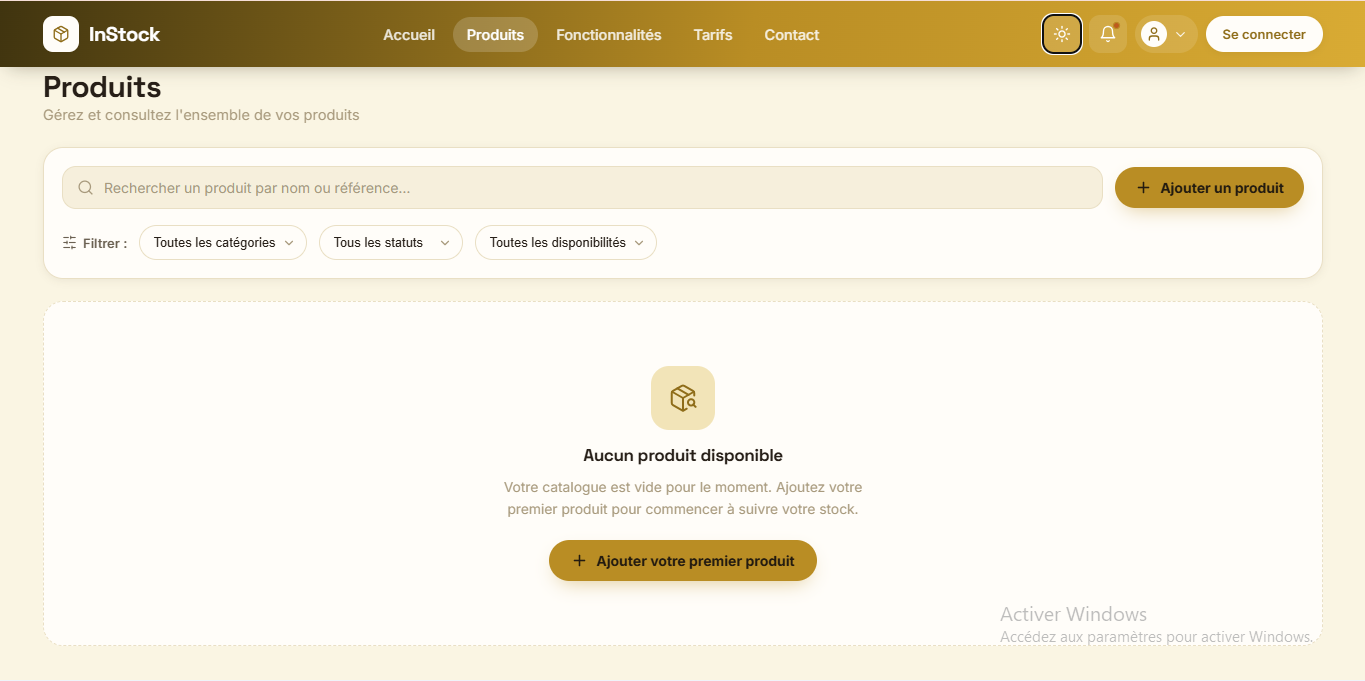
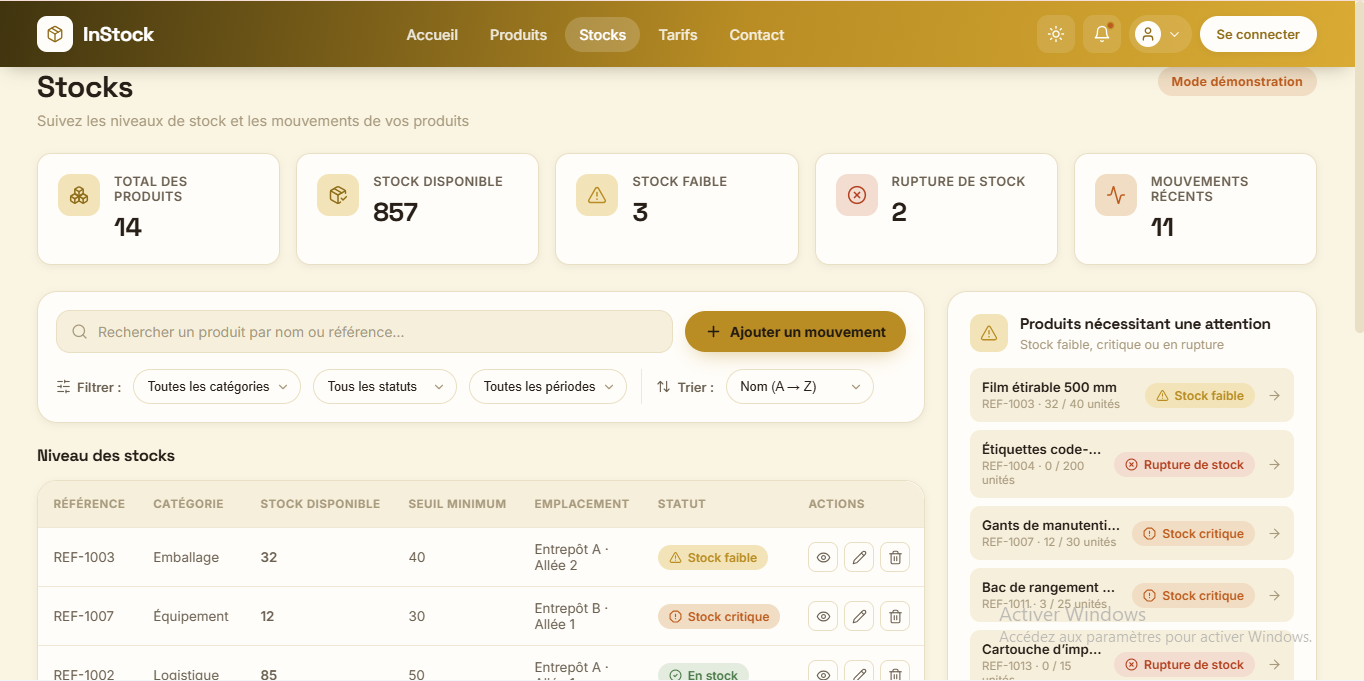
stocks publique

diff --git a/instock-dashboard/src/pages/Stocks.css b/instock-dashboard/src/pages/Stocks.css
@@ -1,0 +1,1 @@
+.stocks-page{padding:32px 20px 64px}.stocks-header{display:flex;align-items:flex-start;justify-content:space-between;gap:16px;flex-wrap:wrap;margin-bottom:24px;opacity:0}.stocks-header h1{font-size:clamp(28px,3.4vw,36px);color:var(--ink)}.stocks-subtitle{margin-top:6px;font-size:14.5px;color:var(--text-muted)}.demo-tag{display:inline-flex;padding:7px 14px;border-radius:999px;background:var(--accent-tint);color:var(--accent);font-size:12px;font-weight:700;white-space:nowrap}.stocks-kpi-grid{display:grid;grid-template-columns:1fr;gap:16px;margin-bottom:26px}.stocks-main-grid{display:grid;grid-template-columns:1fr;gap:22px;align-items:start}.stocks-primary-col,.stocks-side-col{min-width:0}.stocks-chart-block{margin-top:24px}.section-title{font-size:16.5px;color:var(--ink);margin:20px 0 14px}.stock-filters{display:grid;gap:15px;padding:18px;border:1px solid var(--border);border-radius:var(--radius-lg);background:var(--surface);box-shadow:var(--shadow-sm);animation:stockRise .5s var(--ease) both}.stock-search{display:flex;align-items:center;gap:10px;min-height:44px;padding:0 14px;border:1px solid var(--border);border-radius:12px;color:var(--text-muted);background:var(--surface-alt)}.stock-search:focus-within{border-color:var(--primary);box-shadow:0 0 0 4px rgba(185,141,36,.12)}.stock-search input{width:100%;border:0;outline:0;color:var(--ink);background:transparent;font:inherit;font-size:13px}.stock-filter-row{display:flex;align-items:center;flex-wrap:wrap;gap:9px}.filter-label{display:inline-flex;align-items:center;gap:6px;color:var(--text-secondary);font-size:12px;font-weight:700}.sort-label{margin-left:8px}.stock-filter-row select{min-height:38px;padding:0 12px;border:1px solid var(--border);border-radius:999px;outline:0;color:var(--ink);background:var(--surface);font:inherit;font-size:12px}.movement-button,.stock-primary{display:inline-flex;align-items:center;justify-content:center;gap:8px;min-height:40px;padding:0 16px;border:0;border-radius:999px;color:#fffdf9;background:var(--primary);box-shadow:0 8px 18px rgba(143,109,26,.2);font:700 12px Inter,sans-serif;cursor:pointer;transition:transform .2s ease,background .2s ease}.movement-button{margin-left:auto}.movement-button:hover,.stock-primary:hover{background:var(--primary-dark);transform:translateY(-2px)}.reset-stock-filters,.stock-empty button,.stock-secondary{display:inline-flex;align-items:center;justify-content:center;gap:7px;min-height:38px;padding:0 12px;border:1px solid var(--border);border-radius:999px;color:var(--text-secondary);background:var(--surface);font:600 12px Inter,sans-serif;cursor:pointer}.reset-stock-filters:hover,.stock-empty button:hover,.stock-secondary:hover{border-color:var(--primary);color:var(--primary-dark)}.stock-table-wrap{overflow-x:auto;border:1px solid var(--border);border-radius:var(--radius-lg);background:var(--surface);box-shadow:var(--shadow-sm);animation:stockRise .55s .1s var(--ease) both}.stock-table{width:100%;min-width:940px;border-collapse:collapse;text-align:left}.stock-table th{padding:14px;color:var(--text-muted);border-bottom:1px solid var(--border);font-size:10px;text-transform:uppercase;letter-spacing:.08em}.stock-table td{padding:13px 14px;color:var(--ink);border-bottom:1px solid var(--border-soft);font-size:12px}.stock-table tbody tr{transition:background .2s ease}.stock-table tbody tr:hover{background:var(--surface-hover)}.stock-table tbody tr:last-child td{border-bottom:0}.stock-product{display:flex;align-items:center;gap:10px;min-width:190px}.stock-product img,.stock-card-head img{width:40px;height:40px;object-fit:cover;border-radius:9px;background:var(--surface-alt)}.stock-status{display:inline-flex;white-space:nowrap;padding:5px 8px;border-radius:999px;font-size:10px;font-weight:700}.status-in_stock{color:var(--success);background:var(--success-tint)}.status-low_stock{color:var(--warning);background:var(--warning-tint)}.status-critical_stock{color:var(--accent);background:var(--accent-tint)}.status-out_of_stock{color:var(--danger);background:var(--danger-tint)}.stock-actions{display:flex;align-items:center;gap:4px}.stock-actions button{display:inline-flex;align-items:center;justify-content:center;gap:5px;width:30px;height:30px;padding:0;border:1px solid var(--border);border-radius:8px;color:var(--text-muted);background:var(--surface);cursor:pointer}.stock-actions button:hover{color:var(--primary-dark);border-color:var(--primary);background:var(--surface-alt)}.stocks-view-desktop{display:none}.stocks-view-mobile{display:block}.stock-card-list{display:grid;gap:12px}.stock-card{padding:14px;border:1px solid var(--border);border-radius:var(--radius-md);background:var(--surface);box-shadow:var(--shadow-sm);animation:stockRow .4s var(--ease) both}.stock-card-head{display:flex;align-items:center;gap:10px}.stock-card-head h3{margin:0 0 3px;color:var(--ink);font-size:14px}.stock-card-head p{margin:0;color:var(--text-muted);font-size:11px}.stock-card-head .stock-status{margin-left:auto}.stock-card-grid{display:grid;grid-template-columns:repeat(2,1fr);gap:12px;margin:16px 0;color:var(--ink);font-size:12px}.stock-card-grid span{display:grid;gap:4px}.stock-card-grid small,.stock-detail-grid small{color:var(--text-muted);font-size:10px}.stock-card .stock-actions{justify-content:flex-end;padding-top:10px;border-top:1px solid var(--border-soft)}.stock-card .stock-actions button{width:auto;padding:0 9px;font:600 11px Inter,sans-serif}.stock-pagination{display:flex;align-items:center;justify-content:center;gap:14px;margin-top:16px;color:var(--text-muted);font-size:12px}.stock-pagination button{display:grid;place-items:center;width:32px;height:32px;border:1px solid var(--border);border-radius:9px;color:var(--text-secondary);background:var(--surface);cursor:pointer}.stock-pagination button:disabled{opacity:.45;cursor:not-allowed}.stock-empty{display:grid;justify-items:center;gap:10px;min-height:240px;padding:50px 20px;border:1px dashed var(--border);border-radius:var(--radius-lg);color:var(--primary-dark);background:var(--surface);text-align:center}.stock-empty h2{color:var(--ink);font-size:17px}.stock-empty p{color:var(--text-muted);font-size:13px}.attention-panel,.stock-chart{padding:18px;border:1px solid var(--border);border-radius:var(--radius-lg);background:var(--surface);box-shadow:var(--shadow-sm)}.attention-panel header,.stock-chart header{display:flex;align-items:flex-start;gap:10px}.attention-icon{display:grid;place-items:center;width:36px;height:36px;border-radius:10px;color:var(--warning);background:var(--warning-tint)}.attention-panel h2,.stock-chart h2{margin:0;color:var(--ink);font-size:15px}.attention-panel p,.stock-chart p{margin:4px 0 0;color:var(--text-muted);font-size:11px}.attention-list{display:grid;gap:8px;margin-top:16px}.attention-list button{display:flex;align-items:center;gap:8px;width:100%;padding:10px;border:0;border-radius:10px;color:var(--ink);background:var(--surface-alt);text-align:left;cursor:pointer}.attention-list button:hover{background:var(--surface-hover)}.attention-list button>span:first-child{display:grid;min-width:0;flex:1}.attention-list strong{overflow:hidden;text-overflow:ellipsis;white-space:nowrap;font-size:12px}.attention-list small{color:var(--text-muted);font-size:10px}.attention-list>svg{color:var(--text-muted)}.chart-kicker{display:block;margin-bottom:5px;color:var(--primary);font-size:10px;font-weight:700;letter-spacing:.1em;text-transform:uppercase}.chart-canvas{height:240px;margin-top:16px}.chart-skeleton,.stock-skeleton{min-height:240px;margin-top:16px;border-radius:10px;background:linear-gradient(90deg,var(--surface-alt) 25%,var(--surface-hover) 50%,var(--surface-alt) 75%);background-size:200% 100%;animation:stockShimmer 1.2s infinite}.stock-skeleton{display:grid;gap:5px;min-height:0;padding:15px;background:var(--surface)}.stock-skeleton div{height:48px;border-radius:8px;background:var(--surface-alt);animation:stockShimmer 1.2s infinite}.stock-modal-backdrop{position:fixed;inset:0;z-index:100;display:grid;place-items:center;padding:20px;background:rgba(25,18,8,.56);backdrop-filter:blur(5px);animation:stockFade .2s ease both}.stock-modal{width:min(100%,500px);max-height:calc(100vh - 40px);overflow-y:auto;padding:24px;border:1px solid var(--border);border-radius:var(--radius-lg);background:var(--surface);box-shadow:var(--shadow-lg);animation:stockModalUp .3s var(--ease) both}.stock-modal header{display:flex;align-items:flex-start;justify-content:space-between;gap:15px;margin-bottom:20px}.stock-modal header span{color:var(--primary);font-size:10px;font-weight:700;letter-spacing:.1em;text-transform:uppercase}.stock-modal h2{margin:5px 0 0;color:var(--ink);font-size:21px}.stock-modal header button,.delete-close{display:grid;place-items:center;width:30px;height:30px;border:0;border-radius:8px;color:var(--text-muted);background:transparent;cursor:pointer}.stock-modal header button:hover,.delete-close:hover{color:var(--primary-dark);background:var(--surface-alt)}.stock-modal form{display:grid;gap:14px}.stock-modal label{display:grid;gap:6px;color:var(--text-secondary);font-size:12px;font-weight:700}.stock-modal input,.stock-modal select,.stock-modal textarea{width:100%;padding:10px;border:1px solid var(--border);border-radius:9px;outline:0;color:var(--ink);background:var(--surface);font:13px Inter,sans-serif}.stock-modal input,.stock-modal select{min-height:42px}.stock-modal textarea{resize:vertical}.stock-modal input:focus,.stock-modal select:focus,.stock-modal textarea:focus{border-color:var(--primary);box-shadow:0 0 0 4px rgba(185,141,36,.12)}.stock-form-grid,.stock-detail-grid{display:grid;grid-template-columns:1fr 1fr;gap:12px}.stock-modal footer{display:flex;justify-content:flex-end;gap:9px;margin-top:6px}.stock-modal .stock-primary{border-radius:10px}.stock-detail-hero{display:flex;align-items:center;gap:12px;padding:12px;border-radius:12px;background:var(--surface-alt)}.stock-detail-hero img{width:64px;height:64px;object-fit:cover;border-radius:10px}.stock-detail-hero div{display:grid;gap:8px}.stock-detail-grid{margin:18px 0}.stock-detail-grid span{display:grid;gap:4px;color:var(--ink);font-size:12px}.stock-details-modal h3{margin:20px 0 10px;color:var(--ink);font-size:14px}.movement-history{display:grid;gap:8px;margin:0;padding:0;list-style:none}.movement-history li{display:flex;justify-content:space-between;gap:10px;padding:9px;border-radius:8px;color:var(--text-secondary);background:var(--surface-alt);font-size:11px}.modal-product-name{margin:0;color:var(--text-muted);font-size:13px}.delete-modal{text-align:center}.delete-close{margin-left:auto}.delete-icon{display:grid;place-items:center;width:50px;height:50px;margin:4px auto 10px;border-radius:15px;color:var(--danger);background:var(--danger-tint)}.delete-modal p{color:var(--text-muted);font-size:13px}.delete-modal footer{justify-content:center}.delete-button{min-height:38px;padding:0 14px;border:0;border-radius:9px;color:#fff;background:var(--danger);font:700 12px Inter,sans-serif;cursor:pointer}.delete-button:hover{filter:brightness(.92)}@keyframes stockRise{from{opacity:0;transform:translateY(12px)}to{opacity:1;transform:none}}@keyframes stockRow{from{opacity:0;transform:translateY(8px)}to{opacity:1;transform:none}}@keyframes stockFade{from{opacity:0}to{opacity:1}}@keyframes stockModalUp{from{opacity:0;transform:translateY(14px) scale(.98)}to{opacity:1;transform:none}}@keyframes stockShimmer{to{background-position:-200% 0}}@media (min-width:640px){.stocks-kpi-grid{grid-template-columns:1fr 1fr}}@media (min-width:820px){.stocks-view-desktop{display:block}.stocks-view-mobile{display:none}}@media (min-width:1180px){.stocks-kpi-grid{grid-template-columns:repeat(5,1fr)}.stocks-main-grid{grid-template-columns:2.4fr 1fr}}@media (max-width:560px){.stocks-page{padding:24px 14px 48px}.stock-filter-row{display:grid;grid-template-columns:1fr 1fr}.filter-label,.sort-label{grid-column:1/-1}.stock-filter-row select{width:100%}.movement-button,.reset-stock-filters{grid-column:1/-1;margin-left:0}.stock-modal{padding:18px}.stock-form-grid,.stock-detail-grid{grid-template-columns:1fr}.movement-history li{display:grid}}

diff --git a/instock-dashboard/src/pages/Stocks.jsx b/instock-dashboard/src/pages/Stocks.jsx
@@ -1,0 +1,266 @@
+import { useEffect, useMemo, useState } from 'react';
+import {
+  Boxes,
+  PackageCheck,
+  AlertTriangle,
+  XCircle,
+  Activity,
+} from 'lucide-react';
+import Navbar from '../components/Navbar/Navbar.jsx';
+import StatCard from '../components/ui/StatCard.jsx';
+import StockFilters from '../components/stocks/StockFilters.jsx';
+import StockTable from '../components/stocks/StockTable.jsx';
+import StockCard from '../components/stocks/StockCard.jsx';
+import StockEmptyState from '../components/stocks/StockEmptyState.jsx';
+import StockPagination from '../components/stocks/StockPagination.jsx';
+import StockMovementChart from '../components/stocks/StockMovementChart.jsx';
+import AttentionProducts from '../components/stocks/AttentionProducts.jsx';
+import StockMovementModal from '../components/stocks/StockMovementModal.jsx';
+import StockDetailsModal from '../components/stocks/StockDetailsModal.jsx';
+import StockEditModal from '../components/stocks/StockEditModal.jsx';
+import StockDeleteConfirm from '../components/stocks/StockDeleteConfirm.jsx';
+import useDarkMode from '../hooks/useDarkMode.js';
+import { getDemoProducts, getDemoMovements, computeStatus } from '../data/demoStocks.js';
+import './Stocks.css';
+
+const PAGE_SIZE = 8;
+
+export default function Stocks() {
+  const { isDark, toggleTheme } = useDarkMode();
+
+  // Etat de demonstration (frontend uniquement) : initialise depuis
+  // src/data/demoStocks.js. A remplacer par le resultat d'une API reelle.
+  const [products, setProducts] = useState(() => getDemoProducts());
+  const [movements, setMovements] = useState(() => getDemoMovements());
+  const [loading, setLoading] = useState(true);
+
+  const [search, setSearch] = useState('');
+  const [category, setCategory] = useState('');
+  const [status, setStatus] = useState('');
+  const [period, setPeriod] = useState('');
+  const [sort, setSort] = useState('name-asc');
+  const [page, setPage] = useState(1);
+
+  const [movementModalOpen, setMovementModalOpen] = useState(false);
+  const [detailsProduct, setDetailsProduct] = useState(null);
+  const [editProduct, setEditProduct] = useState(null);
+  const [deleteProduct, setDeleteProduct] = useState(null);
+
+  useEffect(() => {
+    const timer = setTimeout(() => setLoading(false), 900);
+    return () => clearTimeout(timer);
+  }, []);
+
+  const hasActiveFilters = Boolean(search || category || status || period);
+
+  const filteredProducts = useMemo(() => {
+    const now = new Date();
+    let list = products.filter((p) => {
+      const matchesSearch =
+        !search ||
+        p.name.toLowerCase().includes(search.toLowerCase()) ||
+        p.reference.toLowerCase().includes(search.toLowerCase());
+      const matchesCategory = !category || p.category === category;
+      const matchesStatus = !status || p.status === status;
+
+      let matchesPeriod = true;
+      if (period) {
+        const days = Number(period);
+        const cutoff = new Date(now.getTime() - days * 24 * 60 * 60 * 1000);
+        const entryDate = p.lastEntry ? new Date(p.lastEntry.date) : null;
+        const exitDate = p.lastExit ? new Date(p.lastExit.date) : null;
+        matchesPeriod = (entryDate && entryDate >= cutoff) || (exitDate && exitDate >= cutoff);
+      }
+
+      return matchesSearch && matchesCategory && matchesStatus && matchesPeriod;
+    });
+
+    const [field, direction] = sort.split('-');
+    list = [...list].sort((a, b) => {
+      let comparison = 0;
+      if (field === 'name') comparison = a.name.localeCompare(b.name);
+      if (field === 'quantity') comparison = a.quantity - b.quantity;
+      return direction === 'desc' ? -comparison : comparison;
+    });
+
+    return list;
+  }, [products, search, category, status, period, sort]);
+
+  const totalPages = Math.max(1, Math.ceil(filteredProducts.length / PAGE_SIZE));
+  const paginatedProducts = filteredProducts.slice((page - 1) * PAGE_SIZE, page * PAGE_SIZE);
+
+  useEffect(() => {
+    setPage(1);
+  }, [search, category, status, period, sort]);
+
+  function resetFilters() {
+    setSearch('');
+    setCategory('');
+    setStatus('');
+    setPeriod('');
+  }
+
+  // --- Statistiques (calculees a partir des donnees de demo courantes) ---
+  const stats = useMemo(() => {
+    const now = new Date();
+    const weekAgo = new Date(now.getTime() - 7 * 24 * 60 * 60 * 1000);
+    return {
+      total: products.length,
+      available: products.reduce((sum, p) => sum + p.quantity, 0),
+      low: products.filter((p) => p.status === 'low_stock' || p.status === 'critical_stock').length,
+      out: products.filter((p) => p.status === 'out_of_stock').length,
+      recentMovements: movements.filter((m) => new Date(m.date) >= weekAgo).length,
+    };
+  }, [products, movements]);
+
+  // --- Actions (mode demo — frontend uniquement) ---
+  function handleAddMovement(movement) {
+    setMovements((prev) => [movement, ...prev]);
+    setProducts((prev) =>
+      prev.map((p) => {
+        if (p.id !== movement.productId) return p;
+        const delta = movement.type === 'in' ? movement.quantity : -movement.quantity;
+        const quantity = Math.max(0, p.quantity + delta);
+        const updated = {
+          ...p,
+          quantity,
+          ...(movement.type === 'in'
+            ? { lastEntry: { date: movement.date, quantity: movement.quantity } }
+            : { lastExit: { date: movement.date, quantity: movement.quantity } }),
+        };
+        return { ...updated, status: computeStatus(updated.quantity, updated.minThreshold) };
+      })
+    );
+  }
+
+  function handleEditProduct(updated) {
+    setProducts((prev) =>
+      prev.map((p) =>
+        p.id === updated.id
+          ? { ...updated, status: computeStatus(updated.quantity, updated.minThreshold) }
+          : p
+      )
+    );
+  }
+
+  function handleDeleteProduct(product) {
+    setProducts((prev) => prev.filter((p) => p.id !== product.id));
+  }
+
+  return (
+    <>
+      <Navbar isDark={isDark} onToggleTheme={toggleTheme} />
+
+      <main className="stocks-page container">
+        <div className="stocks-header fade-in-up">
+          <div>
+            <h1>Stocks</h1>
+            <p className="stocks-subtitle">
+              Suivez les niveaux de stock et les mouvements de vos produits
+            </p>
+          </div>
+          <span className="demo-tag">Tous en publics</span>
+        </div>
+
+        <section className="stocks-kpi-grid" aria-label="Indicateurs de stock">
+          <StatCard icon={Boxes} label="Total des produits" value={stats.total} loading={loading} delay={0} />
+          <StatCard icon={PackageCheck} label="Stock disponible" value={stats.available.toLocaleString('fr-FR')} tone="primary" loading={loading} delay={60} />
+          <StatCard icon={AlertTriangle} label="Stock faible" value={stats.low} tone="warning" loading={loading} delay={120} />
+          <StatCard icon={XCircle} label="Rupture de stock" value={stats.out} tone="danger" loading={loading} delay={180} />
+          <StatCard icon={Activity} label="Mouvements récents" value={stats.recentMovements} tone="accent" loading={loading} delay={240} />
+        </section>
+
+        <div className="stocks-main-grid">
+          <div className="stocks-primary-col">
+            <StockFilters
+              search={search}
+              onSearchChange={setSearch}
+              category={category}
+              onCategoryChange={setCategory}
+              status={status}
+              onStatusChange={setStatus}
+              period={period}
+              onPeriodChange={setPeriod}
+              sort={sort}
+              onSortChange={setSort}
+              onAddMovement={() => setMovementModalOpen(true)}
+              onResetFilters={resetFilters}
+              hasActiveFilters={hasActiveFilters}
+              disabled={loading}
+            />
+
+            <h2 className="section-title">Niveau des stocks</h2>
+
+            {!loading && filteredProducts.length === 0 ? (
+              <StockEmptyState onResetFilters={resetFilters} />
+            ) : (
+              <>
+                <div className="stocks-view-desktop">
+                  <StockTable
+                    products={paginatedProducts}
+                    loading={loading}
+                    onView={setDetailsProduct}
+                    onEdit={setEditProduct}
+                    onDelete={setDeleteProduct}
+                  />
+                </div>
+                <div className="stocks-view-mobile">
+                  <StockCard
+                    products={paginatedProducts}
+                    loading={loading}
+                    onView={setDetailsProduct}
+                    onEdit={setEditProduct}
+                    onDelete={setDeleteProduct}
+                  />
+                </div>
+
+                <StockPagination
+                  currentPage={page}
+                  totalPages={totalPages}
+                  onPageChange={setPage}
+                  disabled={loading}
+                />
+              </>
+            )}
+
+            <div className="stocks-chart-block">
+              <StockMovementChart movements={movements} loading={loading} delay={100} />
+            </div>
+          </div>
+
+          <aside className="stocks-side-col">
+            <AttentionProducts products={products} onView={setDetailsProduct} delay={80} />
+          </aside>
+        </div>
+      </main>
+
+      <StockMovementModal
+        open={movementModalOpen}
+        onClose={() => setMovementModalOpen(false)}
+        products={products}
+        onSubmit={handleAddMovement}
+      />
+
+      <StockDetailsModal
+        open={Boolean(detailsProduct)}
+        onClose={() => setDetailsProduct(null)}
+        product={detailsProduct}
+        movements={movements}
+      />
+
+      <StockEditModal
+        open={Boolean(editProduct)}
+        onClose={() => setEditProduct(null)}
+        product={editProduct}
+        onSubmit={handleEditProduct}
+      />
+
+      <StockDeleteConfirm
+        open={Boolean(deleteProduct)}
+        onClose={() => setDeleteProduct(null)}
+        product={deleteProduct}
+        onConfirm={handleDeleteProduct}
+      />
+    </>
+  );
+}

diff --git a/instock-dashboard/src/data/demoStocks.js b/instock-dashboard/src/data/demoStocks.js
@@ -1,0 +1,37 @@
+const categories = ['Informatique', 'Électronique', 'Logistique', 'Mobilier', 'Fournitures'];
+const images = ['https://images.unsplash.com/photo-1496181133206-80ce9b88a853?auto=format&fit=crop&w=120&q=80', 'https://images.unsplash.com/photo-1527443224154-c4a3942d3acf?auto=format&fit=crop&w=120&q=80', 'https://images.unsplash.com/photo-1553413077-190dd305871c?auto=format&fit=crop&w=120&q=80'];
+const rawProducts = [
+  ['Ordinateur portable Pro 14', 'INF-1001', 'Informatique', 32, 12, 'Entrepôt A · Allée 2'],
+  ['Écran UltraWide 34 pouces', 'ELE-1002', 'Électronique', 8, 10, 'Entrepôt B · Allée 1'],
+  ['Film étirable 500 m', 'REF-1003', 'Logistique', 32, 40, 'Entrepôt A · Allée 2'],
+  ['Étiquettes code-barres', 'REF-1004', 'Fournitures', 0, 20, 'Entrepôt B · Allée 1'],
+  ['Gants de manutention', 'REF-1007', 'Logistique', 12, 30, 'Entrepôt C · Allée 4'],
+  ['Bac de rangement 40 L', 'MOB-1011', 'Mobilier', 25, 15, 'Entrepôt A · Allée 5'],
+  ['Cartouche d’imprimante noire', 'INF-1013', 'Informatique', 0, 8, 'Entrepôt B · Allée 3'],
+  ['Clavier mécanique sans fil', 'ACC-1018', 'Électronique', 46, 12, 'Entrepôt C · Allée 2'],
+  ['Bureau réglable électrique', 'MOB-1021', 'Mobilier', 6, 8, 'Entrepôt A · Allée 6'],
+  ['Souris ergonomique verticale', 'ACC-1024', 'Électronique', 58, 15, 'Entrepôt C · Allée 2'],
+  ['Ramette papier A4', 'FOU-1028', 'Fournitures', 120, 30, 'Entrepôt A · Allée 7'],
+  ['Scanner code-barres', 'INF-1032', 'Informatique', 4, 6, 'Entrepôt B · Allée 2'],
+  ['Chaise ergonomique Atlas', 'MOB-1036', 'Mobilier', 18, 6, 'Entrepôt C · Allée 5'],
+  ['Station d’accueil USB-C', 'ELE-1040', 'Électronique', 9, 10, 'Entrepôt B · Allée 4'],
+];
+
+export function computeStatus(quantity, threshold) {
+  if (quantity === 0) return 'out_of_stock';
+  if (quantity <= threshold * 0.5) return 'critical_stock';
+  if (quantity <= threshold) return 'low_stock';
+  return 'in_stock';
+}
+
+export function getDemoProducts() {
+  return rawProducts.map((item, index) => {
+    const [name, reference, category, quantity, minThreshold, location] = item;
+    const status = computeStatus(quantity, minThreshold);
+    return { id: index + 1, name, reference, category, quantity, minThreshold, location, status, image: images[index % images.length], lastEntry: { date: `2026-08-${String(8 + (index % 10)).padStart(2, '0')}`, quantity: 10 + index }, lastExit: { date: `2026-08-${String(5 + (index % 8)).padStart(2, '0')}`, quantity: 3 + (index % 7) } };
+  });
+}
+
+export function getDemoMovements() {
+  return ['Lun', 'Mar', 'Mer', 'Jeu', 'Ven', 'Sam', 'Dim'].map((date, index) => ({ date, entries: 18 + index * 3, exits: 11 + (index % 4) * 4 }));
+}

diff --git a/instock-dashboard/src/components/stocks/StockFilters.jsx b/instock-dashboard/src/components/stocks/StockFilters.jsx
@@ -1,0 +1,5 @@
+import { Filter, Plus, RotateCcw, Search } from 'lucide-react';
+
+export default function StockFilters({ search, onSearchChange, category, onCategoryChange, status, onStatusChange, period, onPeriodChange, sort, onSortChange, onAddMovement, onResetFilters, hasActiveFilters, disabled }) {
+  return <section className="stock-filters" aria-label="Filtres des stocks"><label className="stock-search"><Search size={18} /><input value={search} onChange={(event) => onSearchChange(event.target.value)} placeholder="Rechercher un produit par nom ou référence..." disabled={disabled} /></label><div className="stock-filter-row"><span className="filter-label"><Filter size={15} /> Filtrer :</span><select value={category} onChange={(event) => onCategoryChange(event.target.value)} disabled={disabled}><option value="">Toutes les catégories</option>{['Informatique', 'Électronique', 'Logistique', 'Mobilier', 'Fournitures'].map((item) => <option key={item}>{item}</option>)}</select><select value={status} onChange={(event) => onStatusChange(event.target.value)} disabled={disabled}><option value="">Tous les statuts</option><option value="in_stock">En stock</option><option value="low_stock">Stock faible</option><option value="critical_stock">Stock critique</option><option value="out_of_stock">Rupture de stock</option></select><select value={period} onChange={(event) => onPeriodChange(event.target.value)} disabled={disabled}><option value="">Toutes les périodes</option><option value="7">7 derniers jours</option><option value="30">30 derniers jours</option><option value="90">90 derniers jours</option></select><span className="filter-label sort-label">Trier :</span><select value={sort} onChange={(event) => onSortChange(event.target.value)} disabled={disabled}><option value="name-asc">Nom (A → Z)</option><option value="name-desc">Nom (Z → A)</option><option value="quantity-asc">Stock croissant</option><option value="quantity-desc">Stock décroissant</option></select>{hasActiveFilters && <button type="button" className="reset-stock-filters" onClick={onResetFilters}><RotateCcw size={14} /> Réinitialiser</button>}<button type="button" className="movement-button" onClick={onAddMovement}><Plus size={17} /> Ajouter un mouvement</button></div></section>;
+}

diff --git a/instock-dashboard/src/components/stocks/StockMovementModal.jsx b/instock-dashboard/src/components/stocks/StockMovementModal.jsx
@@ -1,0 +1,3 @@
+import { X } from 'lucide-react';
+import { useState } from 'react';
+export default function StockMovementModal({ open, onClose, products, onSubmit }) { const [productId, setProductId] = useState(products[0]?.id || ''); if (!open) return null; function submit(event) { event.preventDefault(); const form = new FormData(event.currentTarget); onSubmit({ id: Date.now(), productId: Number(productId), type: form.get('type'), quantity: Number(form.get('quantity')), date: form.get('date'), reason: form.get('reason'), observation: form.get('observation') }); onClose(); } return <div className="stock-modal-backdrop" onMouseDown={(event) => event.target === event.currentTarget && onClose()}><section className="stock-modal" role="dialog" aria-modal="true" aria-labelledby="movement-title"><header><div><span>Mode démonstration</span><h2 id="movement-title">Ajouter un mouvement</h2></div><button type="button" onClick={onClose} aria-label="Fermer"><X size={19}/></button></header><form onSubmit={submit}><label>Produit<select value={productId} onChange={(event) => setProductId(event.target.value)}>{products.map((product) => <option key={product.id} value={product.id}>{product.name} · {product.reference}</option>)}</select></label><div className="stock-form-grid"><label>Type<select name="type"><option value="in">Entrée</option><option value="out">Sortie</option></select></label><label>Quantité<input name="quantity" type="number" min="1" defaultValue="1" required /></label></div><label>Date<input name="date" type="date" defaultValue={new Date().toISOString().slice(0, 10)} required /></label><label>Motif<input name="reason" placeholder="Réception, commande, inventaire..." required /></label><label>Observation<textarea name="observation" rows="3" placeholder="Note facultative" /></label><footer><button type="button" className="stock-secondary" onClick={onClose}>Annuler</button><button type="submit" className="stock-primary">Enregistrer</button></footer></form></section></div>; }

diff --git a/instock-dashboard/src/components/stocks/StockTable.jsx b/instock-dashboard/src/components/stocks/StockTable.jsx
@@ -1,0 +1,5 @@
+import { Eye, Pencil, Trash2 } from 'lucide-react';
+const labels = { in_stock: 'En stock', low_stock: 'Stock faible', critical_stock: 'Stock critique', out_of_stock: 'Rupture de stock' };
+function badge(status) { return <span className={`stock-status status-${status}`}>{labels[status]}</span>; }
+export default function StockTable({ products, loading, onView, onEdit, onDelete }) { if (loading) return <div className="stock-skeleton">{Array.from({ length: 6 }, (_, index) => <div key={index} />)}</div>; return <div className="stock-table-wrap"><table className="stock-table"><thead><tr><th>Produit</th><th>Référence</th><th>Catégorie</th><th>Stock disponible</th><th>Seuil minimum</th><th>Emplacement</th><th>Statut</th><th>Actions</th></tr></thead><tbody>{products.map((product) => <tr key={product.id}><td><div className="stock-product"><img src={product.image} alt="" /><strong>{product.name}</strong></div></td><td>{product.reference}</td><td>{product.category}</td><td><strong>{product.quantity}</strong></td><td>{product.minThreshold}</td><td>{product.location}</td><td>{badge(product.status)}</td><td><div className="stock-actions"><button type="button" onClick={() => onView(product)} aria-label={`Voir ${product.name}`}><Eye size={15} /></button><button type="button" onClick={() => onEdit(product)} aria-label={`Modifier ${product.name}`}><Pencil size={15} /></button><button type="button" onClick={() => onDelete(product)} aria-label={`Supprimer ${product.name}`}><Trash2 size={15} /></button></div></td></tr>)}</tbody></table></div>; }
+export { labels };

diff --git a/instock-dashboard/src/components/stocks/StockEditModal.jsx b/instock-dashboard/src/components/stocks/StockEditModal.jsx
@@ -1,0 +1,2 @@
+import { X } from 'lucide-react';
+export default function StockEditModal({ open, onClose, product, onSubmit }) { if (!open || !product) return null; function submit(event) { event.preventDefault(); const form = new FormData(event.currentTarget); onSubmit({ ...product, quantity: Number(form.get('quantity')), minThreshold: Number(form.get('minThreshold')), location: form.get('location') }); onClose(); } return <div className="stock-modal-backdrop" onMouseDown={(event) => event.target === event.currentTarget && onClose()}><section className="stock-modal" role="dialog" aria-modal="true" aria-labelledby="edit-stock-title"><header><div><span>Mode démonstration</span><h2 id="edit-stock-title">Modifier le stock</h2></div><button type="button" onClick={onClose} aria-label="Fermer"><X size={19}/></button></header><form onSubmit={submit}><p className="modal-product-name">{product.name} · {product.reference}</p><div className="stock-form-grid"><label>Quantité<input name="quantity" type="number" min="0" defaultValue={product.quantity} required /></label><label>Seuil minimum<input name="minThreshold" type="number" min="0" defaultValue={product.minThreshold} required /></label></div><label>Emplacement<input name="location" defaultValue={product.location} required /></label><footer><button type="button" className="stock-secondary" onClick={onClose}>Annuler</button><button type="submit" className="stock-primary">Enregistrer</button></footer></form></section></div>; }

diff --git a/instock-dashboard/src/components/stocks/StockDetailsModal.jsx b/instock-dashboard/src/components/stocks/StockDetailsModal.jsx
@@ -1,0 +1,3 @@
+import { X } from 'lucide-react';
+import { labels } from './StockTable.jsx';
+export default function StockDetailsModal({ open, onClose, product, movements }) { if (!open || !product) return null; const productMovements = movements.slice(0, 4); return <div className="stock-modal-backdrop" onMouseDown={(event) => event.target === event.currentTarget && onClose()}><section className="stock-modal stock-details-modal" role="dialog" aria-modal="true" aria-labelledby="details-title"><header><div><span>Fiche stock</span><h2 id="details-title">{product.name}</h2></div><button type="button" onClick={onClose} aria-label="Fermer"><X size={19}/></button></header><div className="stock-detail-hero"><img src={product.image} alt=""/><div><strong>{product.reference}</strong><span className={`stock-status status-${product.status}`}>{labels[product.status]}</span></div></div><div className="stock-detail-grid"><span><small>Catégorie</small>{product.category}</span><span><small>Stock disponible</small>{product.quantity}</span><span><small>Seuil minimum</small>{product.minThreshold}</span><span><small>Emplacement</small>{product.location}</span></div><h3>Derniers mouvements</h3><ul className="movement-history">{productMovements.map((movement, index) => <li key={`${movement.date}-${index}`}><span>{movement.date}</span><strong>{movement.entries} entrées · {movement.exits} sorties</strong></li>)}</ul></section></div>; }

diff --git a/instock-dashboard/src/components/stocks/StockMovementChart.jsx b/instock-dashboard/src/components/stocks/StockMovementChart.jsx
@@ -1,0 +1,2 @@
+import { Area, AreaChart, CartesianGrid, ResponsiveContainer, Tooltip, XAxis, YAxis } from 'recharts';
+export default function StockMovementChart({ movements, loading }) { return <section className="stock-chart"><header><div><span className="chart-kicker">Activité récente</span><h2>Mouvements de stock</h2><p>Entrées et sorties des sept derniers jours</p></div></header>{loading ? <div className="chart-skeleton" /> : <div className="chart-canvas"><ResponsiveContainer width="100%" height="100%"><AreaChart data={movements}><defs><linearGradient id="entriesFill" x1="0" y1="0" x2="0" y2="1"><stop offset="5%" stopColor="var(--primary)" stopOpacity={.28}/><stop offset="95%" stopColor="var(--primary)" stopOpacity={0}/></linearGradient></defs><CartesianGrid stroke="var(--border-soft)" vertical={false}/><XAxis dataKey="date" stroke="var(--text-muted)" fontSize={11}/><YAxis stroke="var(--text-muted)" fontSize={11}/><Tooltip contentStyle={{ background: 'var(--surface)', border: '1px solid var(--border)', borderRadius: 10 }} /><Area type="monotone" dataKey="entries" name="Entrées" stroke="var(--primary)" fill="url(#entriesFill)" strokeWidth={2}/><Area type="monotone" dataKey="exits" name="Sorties" stroke="var(--accent)" fill="transparent" strokeWidth={2}/></AreaChart></ResponsiveContainer></div>}</section>; }

diff --git a/instock-dashboard/src/components/stocks/StockCard.jsx b/instock-dashboard/src/components/stocks/StockCard.jsx
@@ -1,0 +1,3 @@
+import { Eye, Pencil, Trash2 } from 'lucide-react';
+import { labels } from './StockTable.jsx';
+export default function StockCard({ products, loading, onView, onEdit, onDelete }) { if (loading) return <div className="stock-card-list">{Array.from({ length: 4 }, (_, index) => <div className="stock-card skeleton-card" key={index} />)}</div>; return <div className="stock-card-list">{products.map((product) => <article className="stock-card" key={product.id}><div className="stock-card-head"><img src={product.image} alt="" /><div><h3>{product.name}</h3><p>{product.reference}</p></div><span className={`stock-status status-${product.status}`}>{labels[product.status]}</span></div><div className="stock-card-grid"><span><small>Catégorie</small>{product.category}</span><span><small>Stock</small>{product.quantity} unités</span><span><small>Seuil</small>{product.minThreshold}</span><span><small>Emplacement</small>{product.location}</span></div><div className="stock-actions"><button type="button" onClick={() => onView(product)}><Eye size={15} /> Voir</button><button type="button" onClick={() => onEdit(product)}><Pencil size={15} /> Modifier</button><button type="button" onClick={() => onDelete(product)} aria-label="Supprimer"><Trash2 size={15} /></button></div></article>)}</div>; }

diff --git a/instock-dashboard/scripts/postbuild.js b/instock-dashboard/scripts/postbuild.js
@@ -12,6 +12,8 @@ const connexionSrc = path.join(root, '../dist/instock-dashboard', 'connexion.htm
 const connexionDest = path.join(root, '../dist', 'connexion.html');
 const produitsSrc = path.join(root, '../dist/instock-dashboard', 'produits.html');
 const produitsDest = path.join(root, '../dist', 'produits.html');
+const stocksSrc = path.join(root, '../dist/instock-dashboard', 'stocks.html');
+const stocksDest = path.join(root, '../dist', 'stocks.html');
 const assetsSrc = path.join(root, '../dist/instock-dashboard', 'assets');
 const assetsDest = path.join(root, '../dist', 'assets');
 const dashboardSrc = path.join(root, '../dist/instock-dashboard', 'index.html');
@@ -53,5 +55,6 @@ copyFile(accueilSrc, accueilDest, 'public/accueil.html -> ../dist/index.html');
 copyFile(accueilSrc, accueilCopy, 'public/accueil.html -> ../dist/accueil.html');
 copyFile(connexionSrc, connexionDest, 'connexion.html -> ../dist/connexion.html');
 copyFile(produitsSrc, produitsDest, 'produits.html -> ../dist/produits.html');
+copyFile(stocksSrc, stocksDest, 'stocks.html -> ../dist/stocks.html');
 copyDirectory(assetsSrc, assetsDest, 'instock-dashboard/assets -> ../dist/assets');
 copyFile(dashboardSrc, dashboardDest, 'built dashboard index.html -> ../dist/instock-dashboard/dashboard.html');

diff --git a/instock-dashboard/vite.config.js b/instock-dashboard/vite.config.js
@@ -62,6 +62,22 @@ const routePlugin = {
         }
       }
 
+      if (pathname === '/stocks.html' || pathname === '/stocks') {
+        const stocksPath = path.join(__dirname, 'stocks.html');
+        try {
+          if (fs.existsSync(stocksPath)) {
+            let content = fs.readFileSync(stocksPath, 'utf-8');
+            content = await server.transformIndexHtml(req.url, content);
+            res.setHeader('Content-Type', 'text/html; charset=utf-8');
+            res.setHeader('Cache-Control', 'no-cache');
+            res.end(content);
+            return;
+          }
+        } catch (err) {
+          console.error('Error reading stocks.html:', err);
+        }
+      }
+
       const isDashboardRoute =
         pathname === '/instock-dashboard' ||
         pathname === '/instock-dashboard/' ||
@@ -102,6 +118,7 @@ export default defineConfig({
         path.resolve(__dirname, 'index.html'),
         path.resolve(__dirname, 'connexion.html'),
         path.resolve(__dirname, 'produits.html'),
+        path.resolve(__dirname, 'stocks.html'),
       ],
     },
   },
